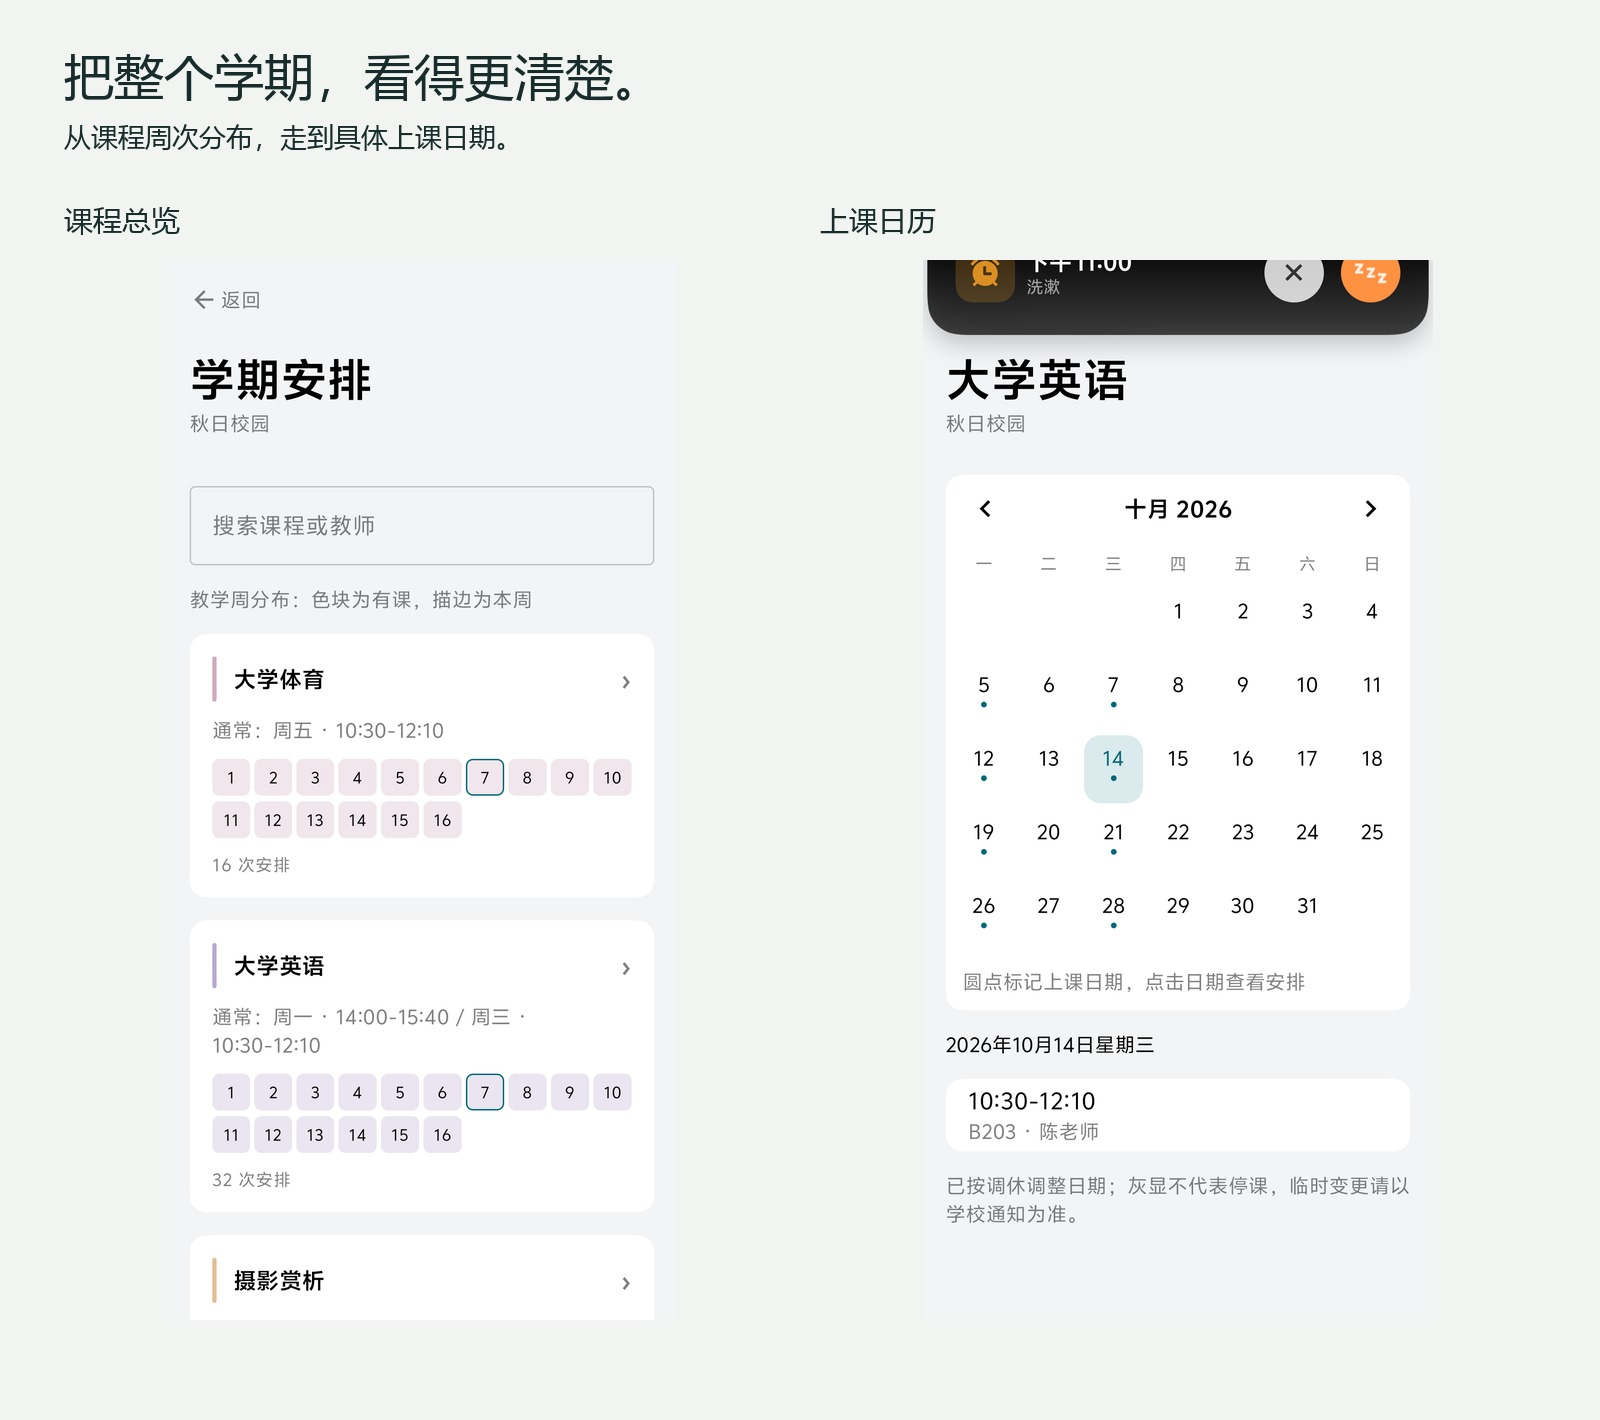
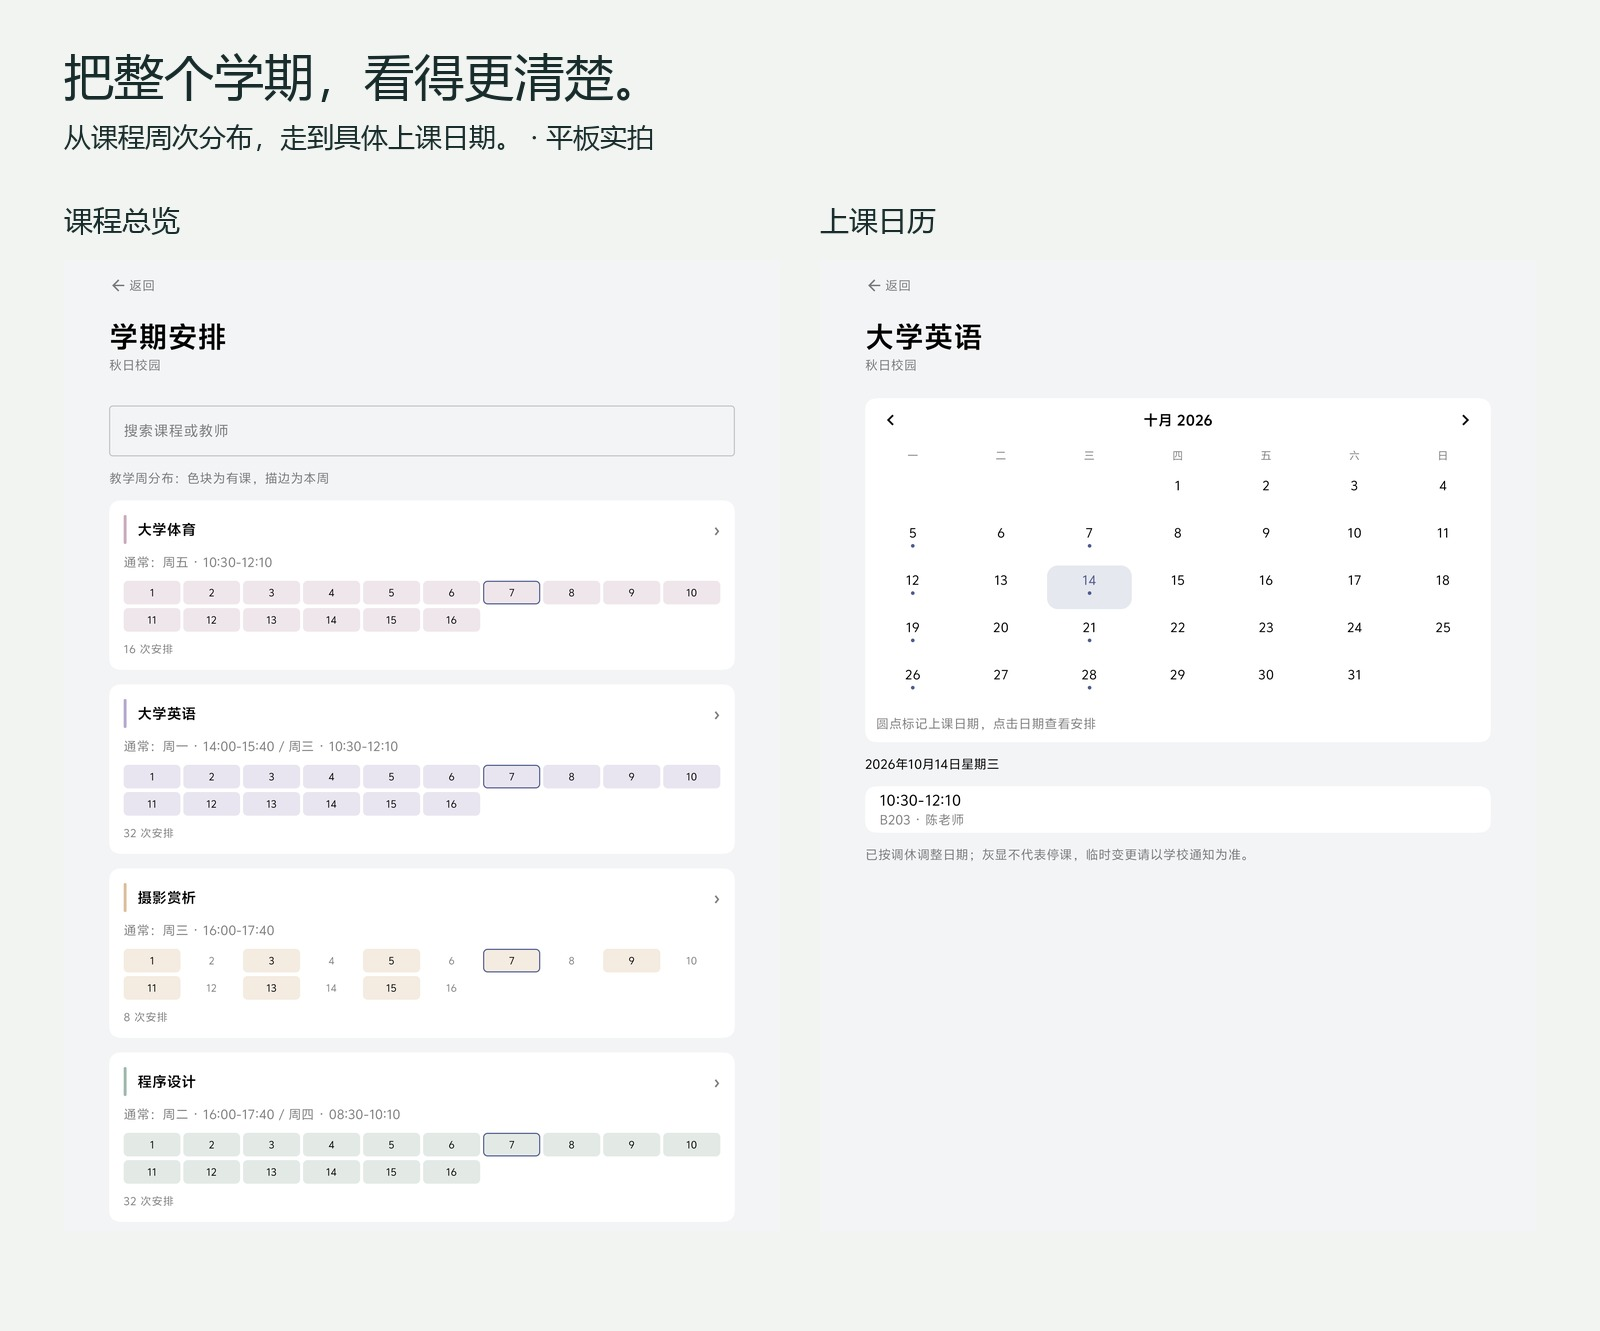
docs: replace alarm-obscured semester showcase

diff --git a/readme/build_showcase.py b/readme/build_showcase.py
@@ -16,7 +16,7 @@ screens = {
     'phone-fill': 'phone-fill', 'phone-bar': 'phone-bar',
     'phone-dark-fill': 'phone-dark-fill', 'phone-dark-bar': 'phone-dark-bar',
     'phone-today': 'phone-today', 'phone-week': 'phone-week',
-    'phone-semester': 'phone-semester', 'phone-calendar': 'phone-calendar',
+    'phone-semester': 'phone-semester',
     'phone-background-light': 'phone-background-light',
     'phone-background-dark': 'phone-background-dark',
     'phone-guide': 'phone-guide', 'phone-guide-lesson': 'phone-guide-lesson',
@@ -53,8 +53,6 @@ def sheet(name, title, subtitle, items, dark=False):
 
 sheet('week-and-today','从整周，到今天。','看清课程、时间与地点。',
  [('phone-fill','整周课表'),('phone-week','按天浏览'),('phone-today','专注今天')])
-sheet('semester','把整个学期，看得更清楚。','从课程周次分布，走到具体上课日期。',
- [('phone-semester','课程总览'),('phone-calendar','上课日历')])
 sheet('appearance','你的课表，你的颜色。','色条与填充，浅色与深色。',
  [('phone-bar','浅色 · 色条'),('phone-dark-bar','深色 · 色条'),('phone-dark-fill','深色 · 填充')])
 sheet('background','换一张背景，也换一种心情。','真实自定义背景效果 · 原创渐变示例',
@@ -88,6 +86,9 @@ if tablet.exists():
     Image.open(tablet/'tablet-widget-expanded.png').crop((334,214,1671,1446)).save(output/'tablet-widget-week.png',optimize=True)
     sheet('tablet-portrait','大屏，也有舒适的阅读节奏。','vivo 平板竖屏实拍',
           [('tablet-semester-portrait','学期安排'),('tablet-calendar-portrait','日期详情')])
+    # Use verified clean captures; the retired phone calendar contains an alarm overlay.
+    sheet('semester','把整个学期，看得更清楚。','从课程周次分布，走到具体上课日期。 · 平板实拍',
+          [('tablet-semester-portrait','课程总览'),('tablet-calendar-portrait','上课日历')])
     hero=Image.new('RGB',(1600,1050),'#e9efeb');d=ImageDraw.Draw(hero)
     d.text((64,38),'MAKE TIME YOURS.',font=font(60),fill='#173c35')
     d.text((64,132),'手机、平板，一份从容的课程安排。',font=font(30),fill='#425b56')

diff --git a/readme/media/v0.1.1/README.md b/readme/media/v0.1.1/README.md
@@ -2,6 +2,8 @@
 
 手机和平板实拍已整理，随 v0.1.1 发布。
 
+2026-10-15 修正：原手机日历截图混入系统闹钟浮层，已从当前素材中移除，并从生成脚本白名单排除。`semester.jpg` 改由同批无浮层的真实平板课程总览与日历截图重新拼版，原图和成图均已目视检查；不是重新拍摄的手机画面。后续发布前须同时检查原图与拼版中的系统通知、闹钟、音量及其他遮挡浮层。
+
 - 手机：vivo V2507A，Android 16，1080×2400。2026-10-14 拍摄当前最新 Preview 界面；随后覆盖安装 0.1.1-preview。
 - 平板：vivo PA2553，Android 16，2800×1968 / 1968×2800，拍摄版本 0.1.1-preview。横竖屏与四种组件均为实体设备，不是模拟器。另存深色横竖屏原图，供查看细节。
 - 示例课表：独立虚构的“秋日校园”，16 周、12 条课程安排；名称、教师、教室均为演示数据。未公开真实教务账号或个人课表。
